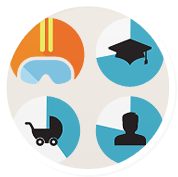
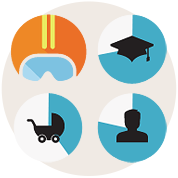
Reslice feature images from .psd so they don't have borders

Changed region(s): [[0.0, 0.0, 0.9831, 0.9887], [0.1404, 0.5085, 0.4775, 0.904], [0.8708, 0.3955, 0.8989, 0.4237]]

diff --git a/index.html b/index.html
@@ -31,31 +31,31 @@
           <p class="features-intro-text">Mattr allows you to build a more complete view of your social media through a comprehensive set of segmentation, comparison, monitoring, and visualization tools. Explore our Features to learn more.</p>
         </div>
         <div class="feature">
-          <img class="feature-image" src="http://lorempixel.com/176/176"></div>
+          <img class="feature-image feature-image-border" src="assets/images/audience-feature.png"></div>
           <div class="feature-text-container">
             <h2 class="feature-heading">Audience Personality Segments</h2>
             <p class="feature-text">Decide how you want to look at your audience, based on our Unique Personality Type Analysis and demographics.</p>
           </div>
         <div class="feature">
-          <img class="feature-image" src="http://lorempixel.com/176/176"></div>
+          <img class="feature-image feature-image-border" src="assets/images/persona-feature.png"></div>
           <div class="feature-text-container">
-            <h2 class="feature-heading">Personal Builder</h2>
+            <h2 class="feature-heading">Persona Builder</h2>
             <p class="feature-text">Combine Personality Traits and Demographic information to create Audience Personas that make sense for your business.</p>
           </div>
         <div class="feature">
-          <img class="feature-image" src="http://lorempixel.com/176/176"></div>
+          <img class="feature-image" src="assets/images/engagement-feature.png"></div>
           <div class="feature-text-container">
             <h2 class="feature-heading">Engagement Response by Persona</h2>
             <p class="feature-text">Which of your social media activities are attracting the audience engagement you're looking for? See a segmented report on a per-post basis.</p>
           </div>
         <div class="feature">
-          <img class="feature-image" src="http://lorempixel.com/176/176"></div>
+          <img class="feature-image feature-image-border" src="assets/images/social-feature.png"></div>
           <div class="feature-text-container">
             <h2 class="feature-heading">Social Brand Benchmarking</h2>
             <p class="feature-text">See how your brand's audience compares to that of your competition, or your industry. Choose what you want to compare and then view the comparison.</p>
           </div>
         <div class="feature">
-          <img class="feature-image" src="http://lorempixel.com/176/176"></div>
+          <img class="feature-image" src="assets/images/sentiment-feature.png"></div>
           <div class="feature-text-container">
             <h2 class="feature-heading">Sentiment Variance</h2>
             <p class="feature-text">Knowing that your audience is 'upbeat' just isn't enough. You need to know if they're more upbeat about your brand than they are about other things.</p>

diff --git a/assets/stylesheets/css/main.css b/assets/stylesheets/css/main.css
@@ -158,6 +158,7 @@ header {
   background-color: #F6941E;
   border: none;
   text-transform: uppercase;
+  font-weight: bold;
   padding-left: 2em;
   padding-right: 2em;
   background: -webkit-linear-gradient(top left, #F6941E, #F44481);
@@ -167,8 +168,18 @@ header {
   background: linear-gradient(to bottom right, #F6941E, #F44481); }
 
 /*==========================================
-BODY
+FEATURES SECTION
 ==========================================*/
+.feature-image {
+  height: 177px;
+  width: 177px;
+  border: 5px solid #fff;
+  border-radius: 50%; }
+
+.feature-image-border {
+  border: 5px solid #fff;
+  border-radius: 50%; }
+
 /*==========================================
 FOOTER
 ==========================================*/

diff --git a/assets/stylesheets/scss/main.scss b/assets/stylesheets/scss/main.scss
@@ -132,6 +132,7 @@ header {
   background-color: $button-orange;
   border: none;
   text-transform: uppercase;
+  font-weight: bold;
   padding-left: 2em;
   padding-right: 2em;
   background: -webkit-linear-gradient(top left, $button-orange, $button-gradient-pink);
@@ -142,8 +143,22 @@ header {
 }
 
 /*==========================================
-BODY
+FEATURES SECTION
 ==========================================*/
+
+.feature-image {
+  height: 177px;
+  width: 177px;
+  border: 5px solid #fff;
+  border-radius: 50%;
+}
+
+.feature-image-border {
+  border: 5px solid #fff;
+  border-radius: 50%;
+}
+
+
 
 /*==========================================
 FOOTER
